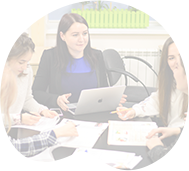
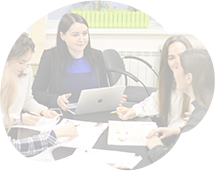
Added svg

diff --git a/html-css/winter_project/src/html/section_we_guarantee.html b/html-css/winter_project/src/html/section_we_guarantee.html
@@ -1,34 +1,30 @@
 <section class="We_guarantee container">
-  <h1 class="title-text">Комплексная</br> подготовка к ВНО </br>по английскому языку</h1>
+  <h1 class="title-text">
+    Комплексная<br />
+    подготовка к ВНО <br />по английскому языку
+  </h1>
   <p class="title-text__paragraph">
-    <span class="title-text__paragraph--grey">Просто не будет.</br></span> Но ты гарантировано наберешь <span class="title-text__paragraph--orange">+25 баллов</span>
+    <span class="title-text__paragraph--grey">Просто не будет.<br /></span> Но
+    ты гарантировано наберешь
+    <span class="title-text__paragraph--orange">+25 баллов</span>
   </p>
-  <div class="button-guarantee-wrapper">
+
   <button class="button-garantee">хочу на бесплатное занятие</button>
-</div>
+
   <div class="main-image">
     <img
-      class="main-amage__background"
-      src="images/photos/Main_layer_2.png"
-      alt="background-foto"
-      width="420"
-      height="280"
-    />
-    <img
       class="maina-image__foto"
-      src="images/photos/Main_layer_1.png"
+      src="../images/photos/Main_layer_1.png"
       alt="discussion_about_english"
-      width="420"
-      height="280"
+      width="182"
+      height="185"
     />
   </div>
 
   <ul class="group-guarantee">
     <li class="group-garantee__item">
       <svg class="group-garantee__item__svg">
-        <use
-          href="images/icons/female student/noun_Female Student_2575636.svg"
-        ></use>
+        <use href="../images/icons/sprite.svg#Female-Student"></use>
       </svg>
       <p class="group-garantee__item__text">
         Адаптированная авторская программа ВНО
@@ -36,9 +32,7 @@
     </li>
     <li class="group-garantee__item">
       <svg class="group-garantee__item__svg">
-        <use
-          href="images/icons/mobile learning/noun_Mobile Learning_2671727.svg"
-        ></use>
+        <use href="../images/icons/sprite.svg#Mobile-Learning"></use>
       </svg>
       <p class="group-garantee__item__text">
         Адаптированная авторская программа ВНО
@@ -46,7 +40,7 @@
     </li>
     <li class="group-garantee__item">
       <svg class="group-garantee__item__svg">
-        <use href="images/icons/insuarance/noun_insurance_1989980.svg"></use>
+        <use href="../images/icons/sprite.svg#insurance"></use>
       </svg>
       <p class="group-garantee__item__text">
         Адаптированная авторская программа ВНО

diff --git a/html-css/winter_project/src/sass/components/section_we_guarantee.scss b/html-css/winter_project/src/sass/components/section_we_guarantee.scss
@@ -20,18 +20,49 @@
   }
 }
 
-.We_guarantee {
-  margin: 0 auto;
-}
-
-.button-guarantee-wrapper {
-  text-align: center;
-}
-
 .button-garantee {
   @extend %button;
-  display: inline-block;
+  display: block;
+  margin: 0 auto 36px;
   height: 44px;
   padding: 0 12px;
   background-color: $primary-orange-color;
+  font-size: 0.7857rem;
+  font-weight: 700;
+  text-transform: uppercase;
+  color: #ffffff;
+}
+
+.main-image {
+  margin: auto;
+  position: relative;
+  width: 215px;
+  height: 185px;
+
+  &::before {
+    display: block;
+    position: absolute;
+    width: 215px;
+    height: 171px;
+    background-image: url(../../images/photos/Main_layer_2.png);
+    background-repeat: no-repeat;
+    content: '';
+  }
+}
+
+.maina-image__foto {
+  position: absolute;
+  width: 182px;
+  height: 185px;
+  left: 22px;
+}
+
+.group-garantee__item__svg {
+  box-sizing: border-box;
+  fill: $primary-orange-color;
+  width: 56px;
+  height: 56px;
+  padding: 8px 10px;
+  border: 2px solid red;
+  border-right: 2px solid rgb(65, 70, 60);
 }

diff --git a/html-css/winter_project/src/index.html b/html-css/winter_project/src/index.html
@@ -9,6 +9,7 @@
       href="https://fonts.googleapis.com/css?family=Montserrat:400,500,600,700,800&display=swap"
       rel="stylesheet"
     />
+    <link rel="stylesheet" href="css\styles.css" />
     <!-- Сюда будет всталена ссылка на файл стилей -->
     <!-- inject:css -->
     <!-- endinject -->

diff --git a/html-css/winter_project/src/html/header.html b/html-css/winter_project/src/html/header.html
@@ -1,5 +1,5 @@
 <header class="site-header container">
-  <nav class="site-navigation container">
+  <nav class="site-navigation">
     <a href="#" class="site-logo"
       ><img
         src="../images/icons/LOGO_HellEnglish.png"

diff --git a/html-css/winter_project/src/sass/main.scss b/html-css/winter_project/src/sass/main.scss
@@ -7,6 +7,5 @@
 @import 'media.scss';
 @import 'helpers/variables.scss';
 @import 'helpers/placeholders.scss';
-
 @import 'components/site-header.scss';
 @import 'components/section_we_guarantee.scss';

diff --git a/html-css/winter_project/src/sass/base.scss b/html-css/winter_project/src/sass/base.scss
@@ -2,9 +2,6 @@ html,
 body {
   font-family: 'Montserrat', sans-serif;
   font-size: 14px;
-}
-
-html {
   box-sizing: border-box;
 }
 
